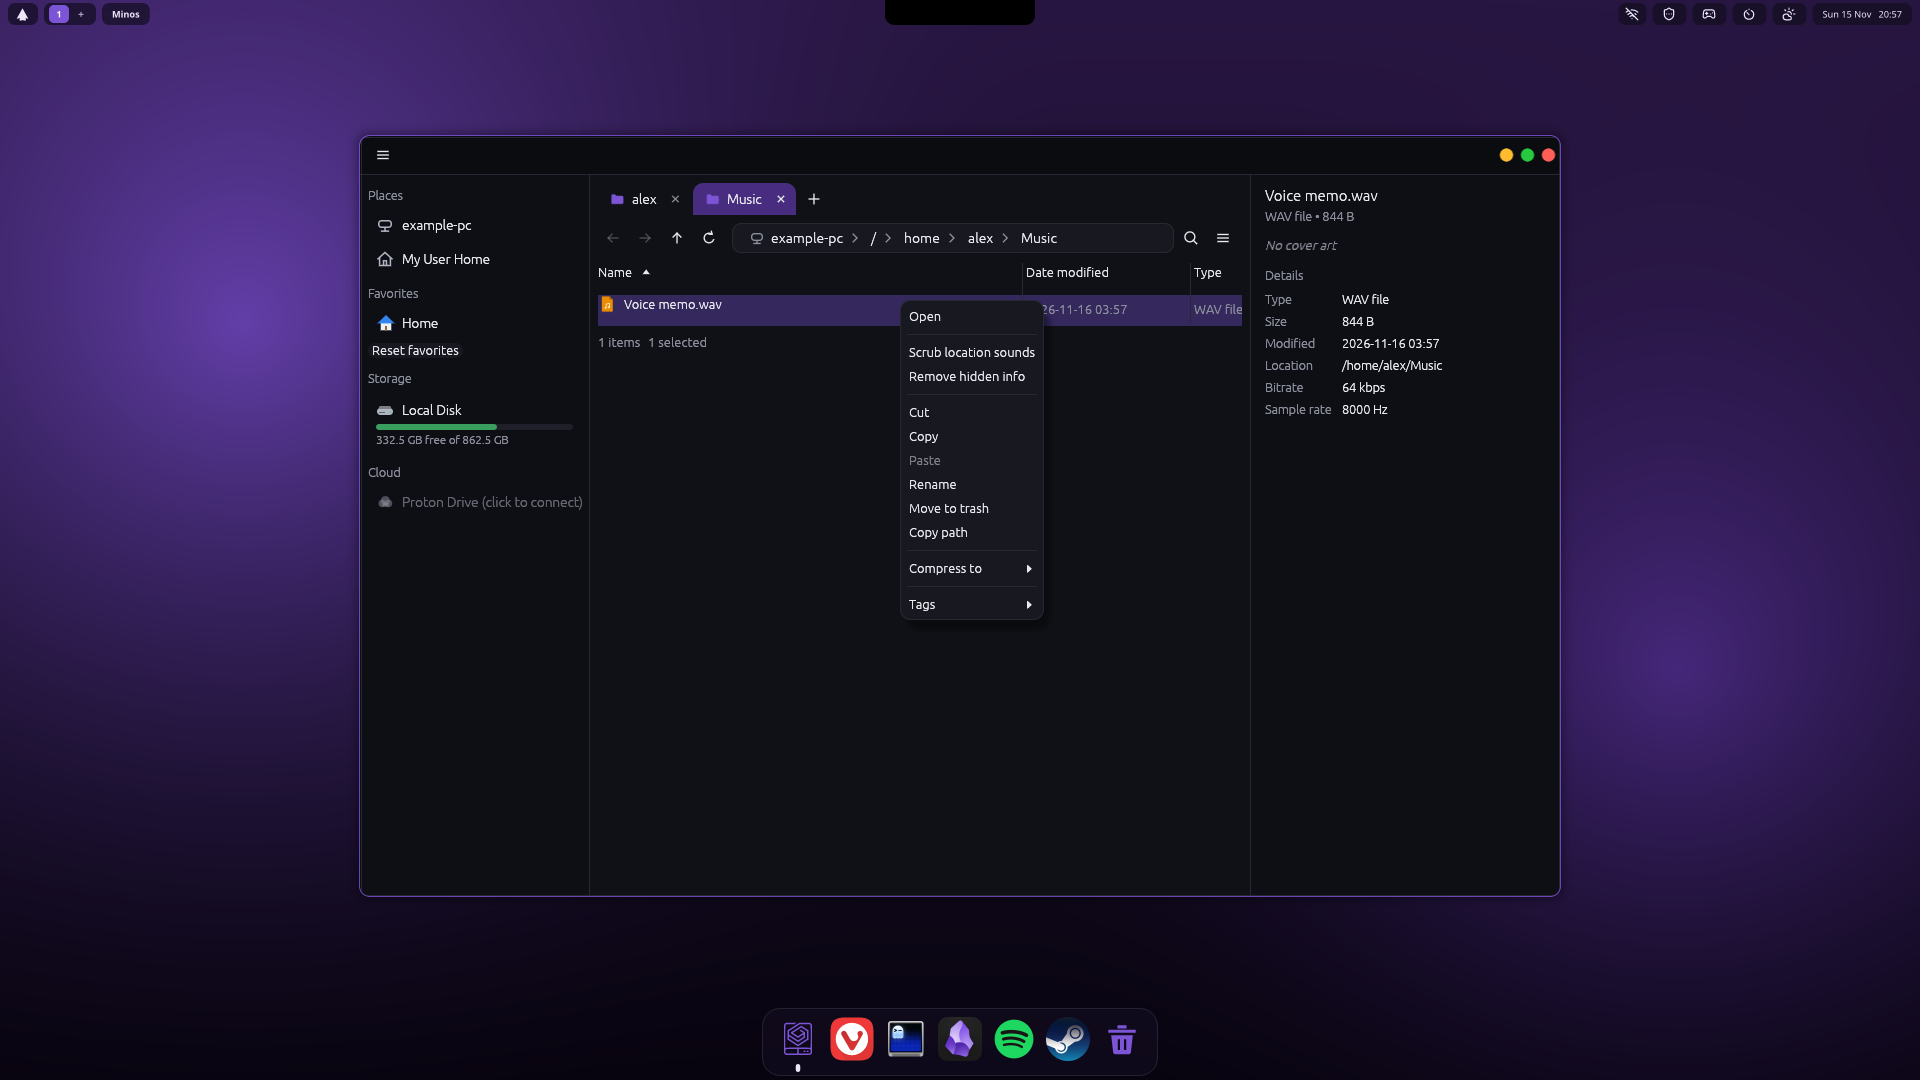
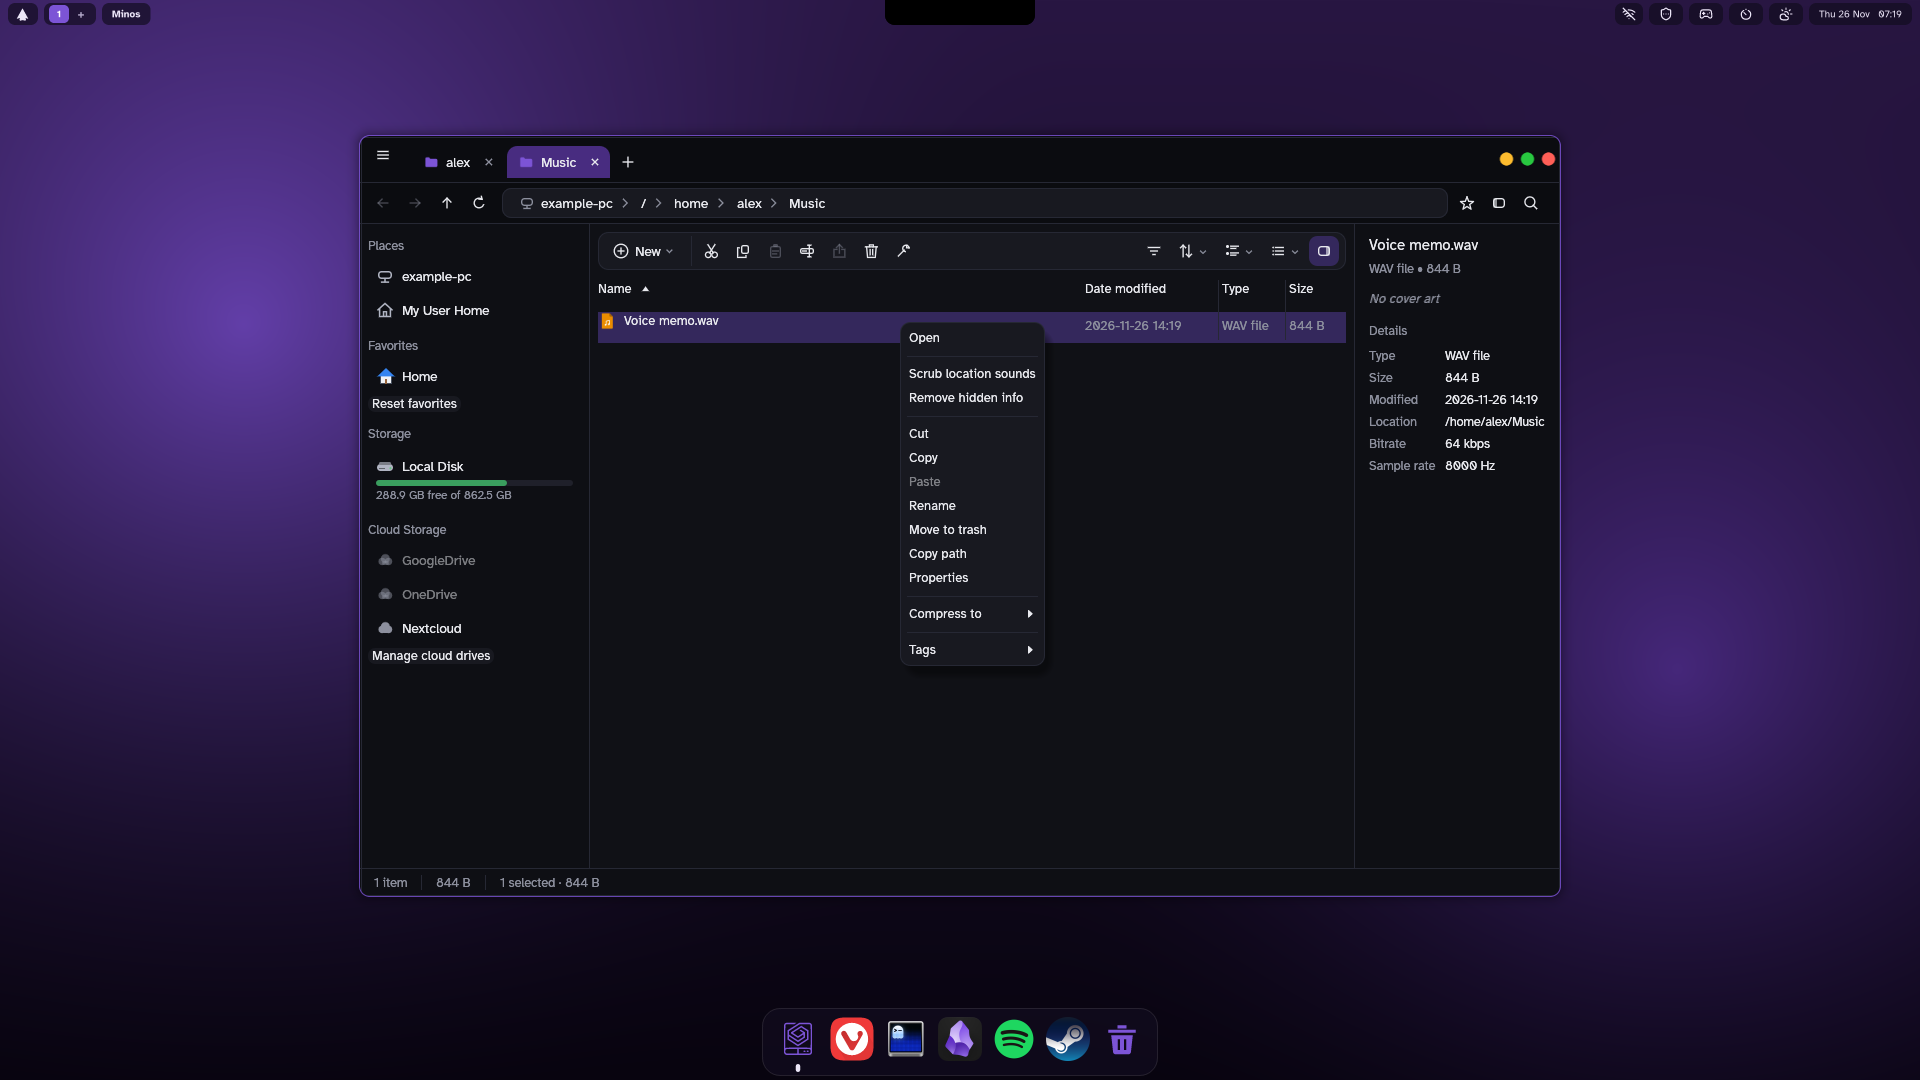
Minos: the details columns and the preview pane fit without scrolling sideways
Date modified, Type and Size start just wide enough for the folder's longest date, type and size and their headings (measured
once per listing, digits as the widest digit), and Name takes the rest; a dragged edge stays for the session. The preview pane's
narrowest is measured from its text (the details' labels and a date on one line) instead of a fixed 220, and a pane saved at the
old narrowest opens at the new one.

diff --git a/packages/minos/src/main.rs b/packages/minos/src/main.rs
@@ -1540,6 +1540,66 @@ fn group_heading(ui: &mut egui::Ui, pal: &Palette, title: &str) {
     }
 }
 
+/// How wide `s` is in `font`.
+fn text_width(ui: &egui::Ui, s: &str, font: &FontId) -> f32 {
+    ui.painter().layout_no_wrap(s.to_string(), font.clone(), Color32::WHITE).size().x
+}
+
+/// `s` with every digit made the font's widest digit: measured, it is as wide as any number of that shape can be.
+fn widest_digits(ui: &egui::Ui, s: &str, font: &FontId) -> String {
+    let w = |c: char| text_width(ui, &c.to_string(), font);
+    let digit = ('0'..='9').max_by(|a, b| w(*a).total_cmp(&w(*b))).unwrap_or('0');
+    s.chars().map(|c| if c.is_ascii_digit() { digit } else { c }).collect()
+}
+
+/// The preview pane's narrowest: room for the details' usual labels and a date on one line in the font in use (a larger text
+/// size widens it), never under PREVIEW_MIN.
+fn preview_min(ui: &egui::Ui) -> f32 {
+    let font = FontId::proportional(12.5);
+    let label = ["Type", "Size", "Modified", "Location", "Contains"].map(|l| text_width(ui, l, &font)).into_iter().fold(0.0, f32::max);
+    let date = text_width(ui, &widest_digits(ui, "2026-01-01 00:00", &font), &font);
+    // the frame's margins (14 a side), the grid's gap (10), and a few points so nothing touches the edge
+    (28.0 + label + 10.0 + date + 6.0).ceil().clamp(PREVIEW_MIN, PREVIEW_MAX)
+}
+
+/// The widths Date modified, Type and Size need to show the listed entries (`order` into `shown`) in full, their headings (with
+/// the sort arrow) included. Measured
+/// once per listing for pane `pi` and kept in egui's memory: only the distinct shapes are measured (a digit counts as the widest
+/// digit, so a later "8" never gets cut), never every row on every frame.
+fn fitted_widths(ui: &egui::Ui, pi: usize, shown: &[Entry], order: &[usize]) -> [f32; 3] {
+    let listed = || order.iter().filter_map(|&i| shown.get(i));
+    // what the listing is, cheaply: a change in it (another folder, a file added or grown, hidden items shown) measures again
+    let print = listed().fold(order.len() as u64, |h, e| {
+        h.rotate_left(7) ^ e.size ^ ((e.name.len() as u64) << 32) ^ u64::from(e.is_dir) ^ u64::from(e.usage.is_some()) << 1
+    });
+    let id = egui::Id::new(("minos-fit", pi));
+    if let Some((p, w)) = ui.ctx().data(|d| d.get_temp::<(u64, [f32; 3])>(id)) {
+        if p == print {
+            return w;
+        }
+    }
+    let font = egui::TextStyle::Body.resolve(ui.style());
+    let width = |s: &str| text_width(ui, s, &font);
+    let shape = |s: &str| widest_digits(ui, s, &font);
+    // a heading: its words, and room for the sort arrow (12 px and a gap) where it sorts
+    let head = |s: &str, sorts: bool| width(s) + if sorts { 12.0 + ui.spacing().item_spacing.x } else { 0.0 };
+    let mut types = BTreeSet::new();
+    let mut sizes = BTreeSet::new();
+    for e in listed() {
+        types.insert(listing::type_name(e));
+        if !e.is_dir {
+            sizes.insert(shape(&listing::human_size(e.size)));
+        }
+    }
+    let date = width(&shape("2026-01-01 00:00")).max(head("Date modified", true));
+    let kind = types.iter().map(|t| width(t)).fold(head("Type", false), f32::max).min(320.0);
+    let size = sizes.iter().map(|s| width(s)).fold(head("Size", true), f32::max);
+    // a little air after the longest text, so it never touches the next column
+    let w = [date, kind, size].map(|x| (x + 12.0).ceil());
+    ui.ctx().data_mut(|d| d.insert_temp(id, (print, w)));
+    w
+}
+
 fn header_cell(ui: &mut egui::Ui, pal: &Palette, label: &str, key: Option<SortKey>, sort: Sort, new_sort: &mut Sort) {
     ui.horizontal(|ui| {
         let r = ui.add(egui::Label::new(RichText::new(label).strong().color(pal.text)).sense(if key.is_some() {
@@ -1773,6 +1833,10 @@ fn draw_pane(
                     .flat_map(|pos| heads.iter().any(|(p, _)| *p == pos).then_some((pos, true)).into_iter().chain([(pos, false)]))
                     .collect();
                 let columns = 2 + usize::from(status_col) + if narrow { 0 } else { 2 };
+                // Date modified, Type and Size start just wide enough for what this folder shows in full, and the name takes the
+                // rest, so the list fits the pane without scrolling sideways. A dragged edge stays for the session; a folder whose
+                // widest date, type or size differs starts fitted again (the widths are the table's id).
+                let [date_w, type_w, size_w] = fitted_widths(ui, pi, shown, &order);
                 let mut tb =
                     TableBuilder::new(ui).striped(true).resizable(!narrow).sense(Sense::click_and_drag()).drag_to_scroll(drag_scroll);
                 if let Some(r) = want_row.and_then(|w| rows.iter().position(|&(p, head)| p == w && !head)) {
@@ -1782,14 +1846,15 @@ fn draw_pane(
                     let name_w = (avail_w - 84.0).max(100.0);
                     tb = tb.column(Column::exact(name_w).clip(true)).column(Column::exact(70.0));
                 } else {
-                    tb = tb.column(Column::initial(420.0).at_least(160.0).clip(true));
+                    tb = tb.id_salt(("details", date_w as u32, type_w as u32, size_w as u32));
+                    tb = tb.column(Column::remainder().at_least(160.0).clip(true).resizable(false));
                     if status_col {
                         tb = tb.column(Column::initial(80.0).at_least(60.0));
                     }
                     tb = tb
-                        .column(Column::initial(160.0).at_least(80.0))
-                        .column(Column::initial(120.0).at_least(60.0))
-                        .column(Column::remainder().at_least(70.0));
+                        .column(Column::initial(date_w).at_least(60.0))
+                        .column(Column::initial(type_w).at_least(50.0))
+                        .column(Column::initial(size_w).at_least(50.0));
                 }
                 tb.header(26.0, |mut h| {
                     h.col(|ui| header_cell(ui, &pal, "Name", Some(SortKey::Name), sort, &mut new_sort));
@@ -4446,17 +4511,20 @@ impl eframe::App for App {
             }
             self.pv.poll(&ctx);
             // the width the pane was last dragged to (the narrowest at first), kept for next time once the drag ends
+            let min = preview_min(ui);
             let shown = egui::Panel::right("preview")
-                .default_size(self.st.preview_width.clamp(PREVIEW_MIN, PREVIEW_MAX))
+                .default_size(self.st.preview_width.clamp(min, PREVIEW_MAX))
                 .max_size(PREVIEW_MAX)
-                .min_size(PREVIEW_MIN)
+                .min_size(min)
                 .frame(egui::Frame::new().fill(pal.sidebar).inner_margin(egui::Margin::symmetric(14, 12)))
                 .show(ui, |ui| {
                     draw_preview(ui, &pal, &self.pv);
                 });
+            // at the narrowest it is kept as "the narrowest" (PREVIEW_MIN), so it follows a later change of font or text size
             let width = shown.response.rect.width().round();
-            if (width - self.st.preview_width).abs() >= 1.0 && !ctx.input(|i| i.pointer.any_down()) {
-                self.st.preview_width = width;
+            let keep = if width <= min.round() + 1.0 { PREVIEW_MIN } else { width };
+            if (keep - self.st.preview_width).abs() >= 1.0 && !ctx.input(|i| i.pointer.any_down()) {
+                self.st.preview_width = keep;
                 self.dirty = true;
             }
         }

diff --git a/packages/minos/src/state.rs b/packages/minos/src/state.rs
@@ -28,8 +28,12 @@ pub struct Tag {
     pub color: [u8; 3],
 }
 
-/// The preview pane's narrowest and widest (its whole width, frame included).
-pub const PREVIEW_MIN: f32 = 220.0;
+/// The preview pane's narrowest and widest (its whole width, frame included). The narrowest the pane really takes is measured
+/// from its text (Minos's preview_min: the details' labels and a date on one line), never under PREVIEW_MIN; a saved width of
+/// PREVIEW_MIN means "at the narrowest".
+pub const PREVIEW_MIN: f32 = 160.0;
+/// The narrowest until 2026-11-26: a pane saved at it was at its narrowest, so it opens at the new narrowest.
+const PREVIEW_MIN_BEFORE: f32 = 220.0;
 pub const PREVIEW_MAX: f32 = 520.0;
 
 #[derive(Debug, Clone, Serialize, Deserialize)]
@@ -123,7 +127,11 @@ impl State {
     }
 
     pub fn load_from(path: &Path) -> State {
-        crate::compat::read_to_string(path).and_then(|t| serde_json::from_str(&t).ok()).unwrap_or_default()
+        let mut s: State = crate::compat::read_to_string(path).and_then(|t| serde_json::from_str(&t).ok()).unwrap_or_default();
+        if (s.preview_width - PREVIEW_MIN_BEFORE).abs() < 0.5 {
+            s.preview_width = PREVIEW_MIN;
+        }
+        s
     }
 
     /// Write atomically (temp file then rename) so a crash cannot leave half a file.
@@ -228,6 +236,9 @@ mod tests {
         let l = State::load_from(&file);
         assert_eq!(l.tabs, s.tabs);
         assert_eq!(l.preview_width, 268.0, "the preview pane's width is kept");
+        s.preview_width = PREVIEW_MIN_BEFORE;
+        s.save_to(&file).unwrap();
+        assert_eq!(State::load_from(&file).preview_width, PREVIEW_MIN, "a pane left at the old narrowest opens at the new one");
         assert_eq!(l.favorites, vec![PathBuf::from("/fav")]);
         assert_eq!(l.color_for(Path::new("/a")), Some([220, 70, 70]));
 

diff --git a/docs/keys/minos.md b/docs/keys/minos.md
@@ -29,6 +29,12 @@ Share is greyed: the system has no file sharing service. In split view each pane
 bar, and a narrow pane puts Sort, Group, the layout and the preview pane in one menu. Code: `src/topbar.rs`, the rules in
 `src/commandbar.rs`, Group by in `src/grouping.rs`.
 
+**The details list and the preview pane fit without scrolling sideways:** Date modified, Type and Size start just wide enough
+for the folder's longest date, type and size (and their headings), and Name takes the rest of the pane. Dragging a column's edge
+keeps that width for the session; a folder whose widest values differ starts fitted again. The preview pane opens at its
+narrowest, measured from its text (the details' labels and a date on one line, so a larger text size widens it), and keeps the
+width it is dragged to. Code: `fitted_widths` and `preview_min` in `src/main.rs`.
+
 **Properties** (Alt+Enter, the wrench, or right-click > Properties): name, type, size, where it is, when it was made and changed, its permissions in
 letters and words, and its owner; with nothing selected, the folder's. A folder's size (and several items') is counted on a
 thread by the status bar's walker (`src/foldersize.rs`); on a network or cloud drive it is not counted (it would fetch every file). Code: `src/props.rs`.
